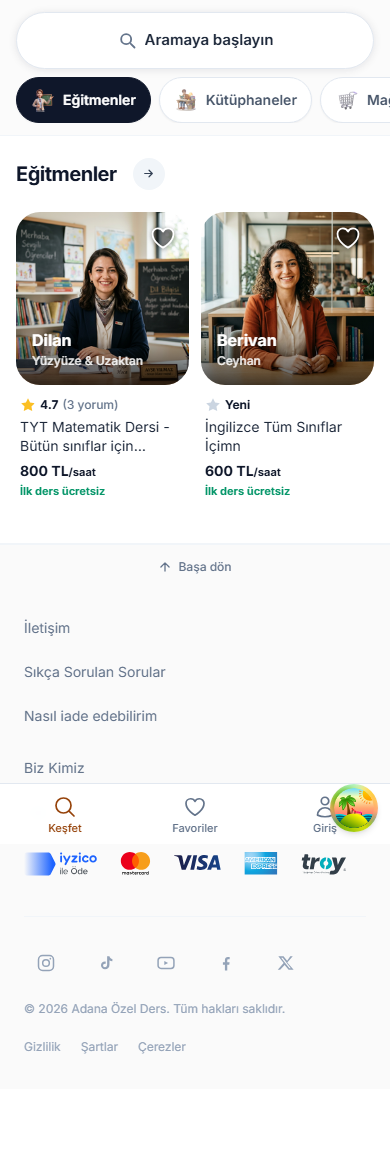
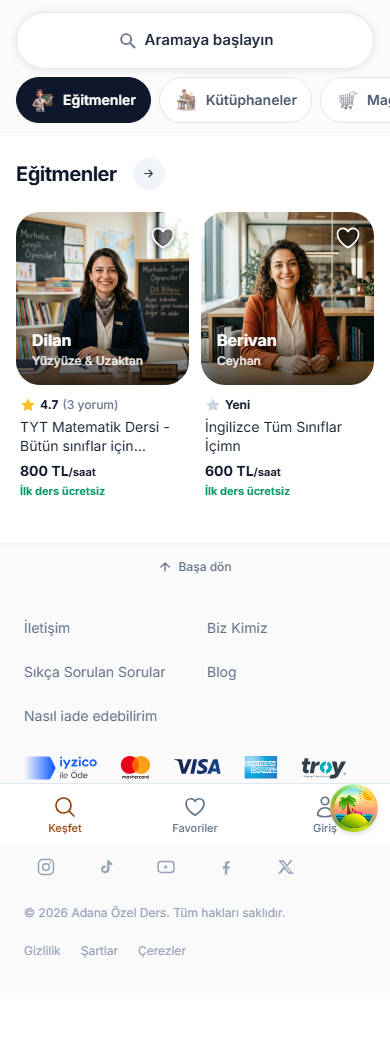
fix(mobil): footer telefonda iki sütuna döndü — tek sütun ÖLÇÜLDÜ ve uzatıyordu
Önceki tur "başlıksız düz liste" kararını tek sütun olarak uyguladı ve
sonucu ölçüp bildirdi: footer 574 → 602px, yani KISALMADI UZADI. Sebep
yapısal — beş link tek sütunda beş satır demek; başlıkları kaldırmanın
kazancı (~50px) satır sayısının bedelini karşılamıyor.

Aynı sadelik (başlık yok) iki sütunda üç satıra iniyor. "Güvenli Ödeme"
hücresi telefonda TAM GENİŞLİK (`col-span-2`): üçüncü hücre olarak
kalsaydı tek başına ikinci satıra düşüp sağını boş bırakırdı — ilk
sürümün kusuru tam olarak buydu.

Ölçüm (390px, ana sayfa): 574 → 450px. Sayfadaki payı %49 → %38.
13 bağlantının hepsi yerinde, 44px altı dokunma hedefi 0.

Kapı: 2567/2567 vitest, eslint 0 hata, build temiz, mobil tur 8/8 GEÇTİ.

diff --git a/frontend/src/components/SiteFooter.tsx b/frontend/src/components/SiteFooter.tsx
@@ -135,10 +135,17 @@ export function SiteFooter() {
       <div className="mx-auto max-w-[1216px] px-6 py-5 md:py-12">
         <nav
           aria-label="Site bağlantıları"
-          // Telefonda TEK SÜTUN (kullanıcı kararı, 9 Eyl 2026). İki sütun,
-          // üçüncü hücreyi ("Güvenli Ödeme") tek başına ikinci satıra
-          // düşürüyor ve sağını boş bırakıyordu.
-          className="grid grid-cols-1 gap-x-10 gap-y-2 text-sm text-slate-500 sm:grid-cols-3 sm:gap-x-14 sm:gap-y-8"
+          /* Telefonda BAŞLIKSIZ İKİ SÜTUN (kullanıcı kararı 9 Eyl 2026 +
+             ölçüm düzeltmesi). Önce tek sütun denendi ve ÖLÇÜLDÜ: footer 574
+             → 602px, yani UZADI — beş link tek sütunda beş satır demek. Aynı
+             sadelik (başlık yok) iki sütunda üç satıra iniyor.
+
+             "Güvenli Ödeme" hücresi telefonda TAM GENİŞLİK (`col-span-2`):
+             iki sütunlu ızgarada üçüncü hücre olarak kalsaydı tek başına
+             ikinci satıra düşüp sağını boş bırakırdı — ilk sürümün kusuru
+             tam olarak buydu. Ödeme rozeti zaten bir güven işaretidir, bir
+             sütuna sıkışması için sebep yok. */
+          className="grid grid-cols-2 gap-x-6 gap-y-2 text-sm text-slate-500 sm:grid-cols-3 sm:gap-x-14 sm:gap-y-8"
         >
             {/* 31 Ağu (kullanıcı kararları): Destek EN SOLDA, sonra Hakkımızda.
                 Destek linkleri — mesafeli satışta erişilebilir iletişim
@@ -175,7 +182,7 @@ export function SiteFooter() {
                 sütununda (iyzico bandı: iyzico+Visa+MC+Amex tek dosyada). */}
             {/* Ödeme rozeti bir GÜVEN İŞARETİdir; telefonda bir sütunun
                 içinde değil, linklerin altında kendi satırında durur. */}
-            <div className="pt-2 sm:space-y-2.5 sm:pt-0">
+            <div className="col-span-2 pt-2 sm:col-span-1 sm:space-y-2.5 sm:pt-0">
               <p className={baslikCls}>Güvenli Ödeme</p>
               <img
                 src="/odeme/iyzico-logo-band.svg"
